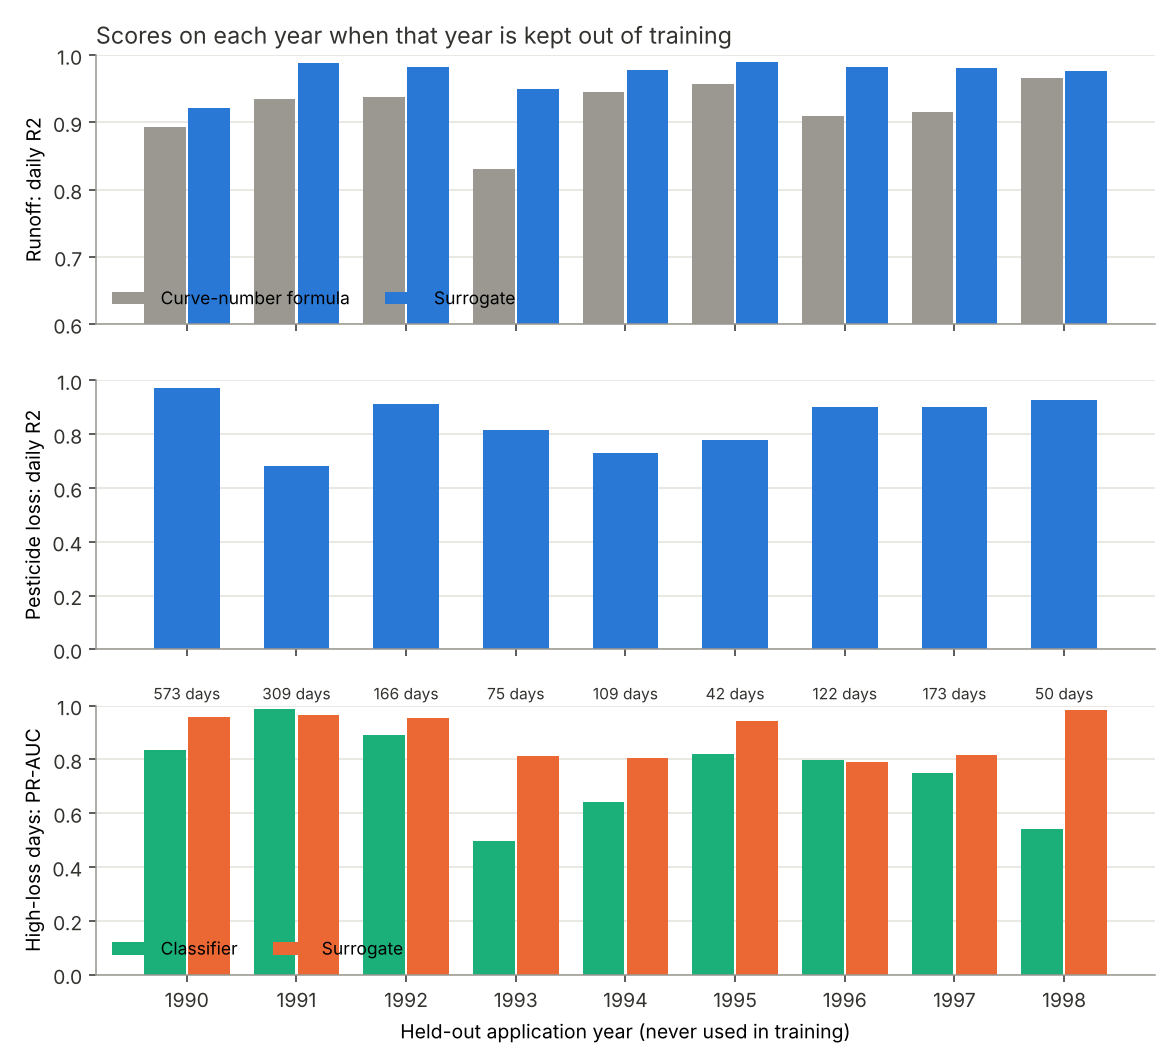
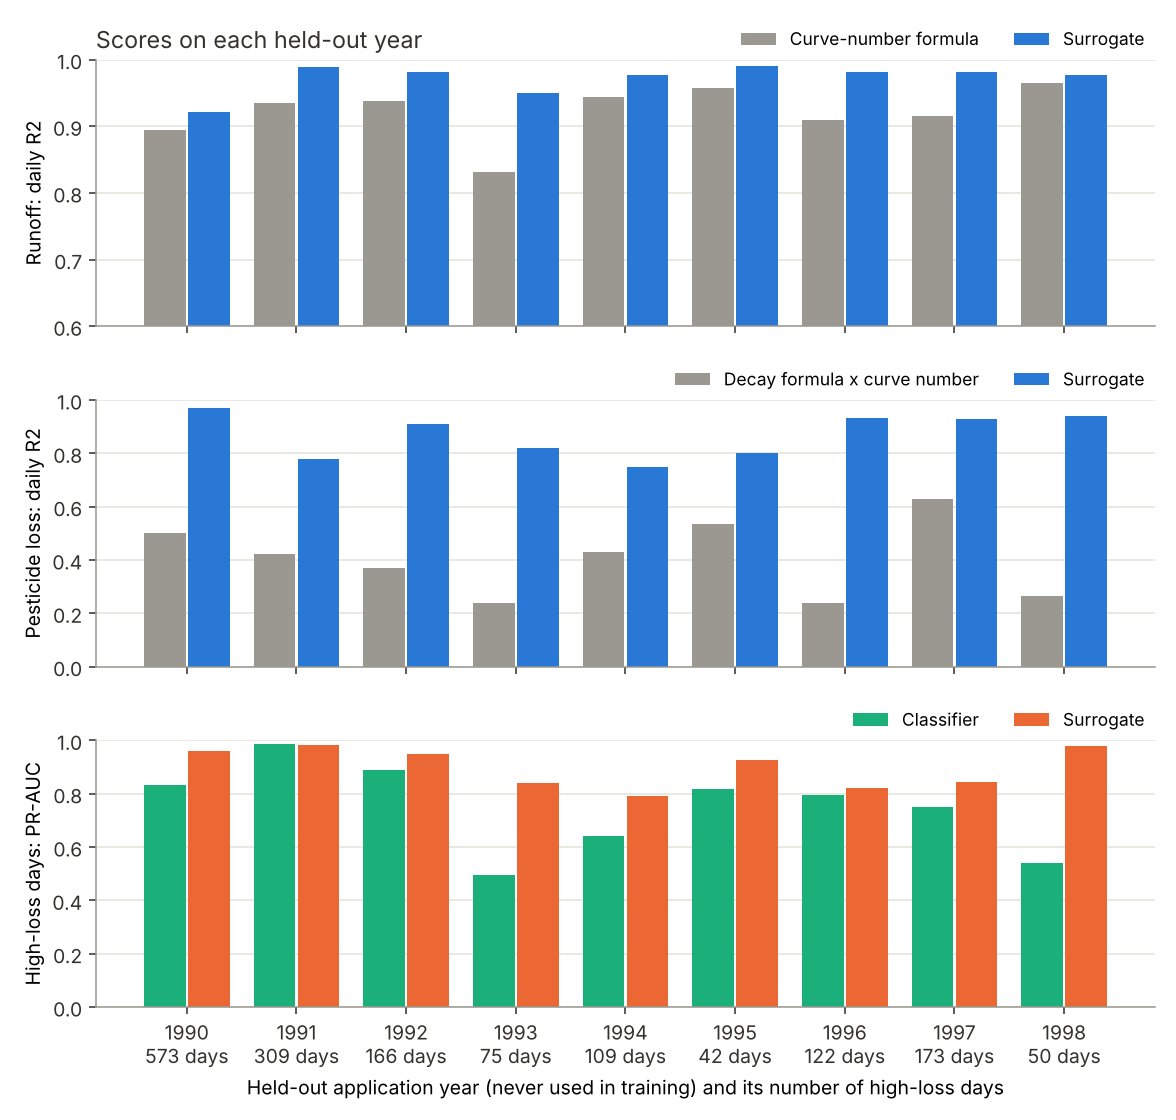
Year-by-year results with the amount-based concentration model; README, scope and model report updated
Leave-one-year-out, nine years pooled: pesticide loss R2 0.91 (was 0.87),
total loss underestimated by 8 % (was 15 %), high-loss PR-AUC 0.92.

Claude-Session: https://claude.ai/code/session_01T1sfAJWbJXhoHJecgvw1dC

diff --git a/runoffwatch/figures.py b/runoffwatch/figures.py
@@ -223,23 +223,23 @@ def model_figures(te, tc, scores, shap_rank, shap_sample, contrib, calendar, out
 
 def cv_figure(by_year: pd.DataFrame, out: Path) -> None:
     """Scores for each held-out year: shows how much they move from year to year."""
-    yrs = [str(y) for y in by_year.index]
-    x = np.arange(len(yrs))
-    fig, axes = plt.subplots(3, 1, figsize=(8.4, 7.6), sharex=True)
+    x = np.arange(len(by_year))
+    fig, axes = plt.subplots(3, 1, figsize=(8.4, 8.0), sharex=True)
+    above = dict(frameon=False, fontsize=9, ncol=2, loc="lower right", bbox_to_anchor=(1.0, 1.0), borderaxespad=0.2)
     axes[0].bar(x - 0.2, by_year["runoff_r2_curve_number"], width=0.38, color=MUTED, label="Curve-number formula")
     axes[0].bar(x + 0.2, by_year["runoff_r2"], width=0.38, color=BLUE, label="Surrogate")
-    axes[0].set_ylabel("Runoff: daily R2"); axes[0].set_ylim(0.6, 1.0); axes[0].legend(frameon=False, fontsize=9, ncol=2, loc="lower left")
-    axes[1].bar(x, by_year["loss_r2"].clip(lower=0), width=0.6, color=BLUE)
-    axes[1].set_ylabel("Pesticide loss: daily R2"); axes[1].set_ylim(0, 1.0)
+    axes[0].set_ylabel("Runoff: daily R2"); axes[0].set_ylim(0.6, 1.0); axes[0].legend(**above)
+    axes[1].bar(x - 0.2, by_year["loss_r2_baseline"].clip(lower=0), width=0.38, color=MUTED, label="Decay formula x curve number")
+    axes[1].bar(x + 0.2, by_year["loss_r2"].clip(lower=0), width=0.38, color=BLUE, label="Surrogate")
+    axes[1].set_ylabel("Pesticide loss: daily R2"); axes[1].set_ylim(0, 1.0); axes[1].legend(**above)
     axes[2].bar(x - 0.2, by_year["pr_auc_classifier"], width=0.38, color=AQUA, label="Classifier")
     axes[2].bar(x + 0.2, by_year["pr_auc_surrogate"], width=0.38, color=ORANGE, label="Surrogate")
-    axes[2].set_ylabel("High-loss days: PR-AUC"); axes[2].set_ylim(0, 1.0); axes[2].legend(frameon=False, fontsize=9, ncol=2, loc="lower left")
-    for i, n in enumerate(by_year["high_loss_days"]):
-        axes[2].text(i, 1.01, f"{int(n)} days", ha="center", va="bottom", fontsize=8, color=INK)
-    axes[2].set_xticks(x, yrs); axes[2].set_xlabel("Held-out application year (never used in training)")
+    axes[2].set_ylabel("High-loss days: PR-AUC"); axes[2].set_ylim(0, 1.0); axes[2].legend(**above)
+    axes[2].set_xticks(x, [f"{y}\n{int(n)} days" for y, n in zip(by_year.index, by_year["high_loss_days"])])
+    axes[2].set_xlabel("Held-out application year (never used in training) and its number of high-loss days")
     for ax in axes:
         _style(ax)
-    axes[0].set_title("Scores on each year when that year is kept out of training", loc="left", color=INK, fontsize=12)
+    axes[0].set_title("Scores on each held-out year", loc="left", color=INK, fontsize=12)
     _save(fig, out / "m7_scores_by_held_out_year.png")
 
 

diff --git a/docs/MODEL_REPORT.md b/docs/MODEL_REPORT.md
@@ -1,7 +1,7 @@
 # Model report: surrogate of PRZM, high-loss days, spray-day advisor
 
 All numbers are from `python -m runoffwatch train --cv` (leave-one-year-out) and
-`python -m runoffwatch train` (final models, figures) on 12 Nov 2026. Machine-readable:
+`python -m runoffwatch train` (final models, figures) on 16 Nov 2026. Machine-readable:
 [`results/cv_summary.json`](results/cv_summary.json), [`results/cv_by_year.csv`](results/cv_by_year.csv),
 [`results/model_metrics.json`](results/model_metrics.json).
 Which data went in: [DATA_REPORT.md](DATA_REPORT.md).
@@ -20,6 +20,15 @@ Pesticide loss = runoff x concentration. No PRZM output is used as an input.
 Both are gradient-boosted trees (LightGBM). The runoff model is
 **physics-informed**: the textbook curve-number runoff for today's rain is one
 of its inputs, so it only has to learn how PRZM corrects that for soil moisture.
+
+The concentration model is trained on the amount itself, with each day weighted
+by its runoff, so that errors are counted in grams lost. The first version was
+trained on the logarithm of the amount; it was very exact for small losses but
+underestimated the large ones (section 3).
+
+The models saved in `models/` and used by the advisor are trained on **all
+years and all weather files**. Their expected accuracy is the leave-one-year-out
+score below; they cannot be tested themselves because no data is left over.
 
 **High-loss classifier**: is today a day with at least 1 g/ha pesticide loss
 (0.04 % of the dose)? Such days are 0.17 % of all rain days and carry 55 % of
@@ -75,21 +84,24 @@ The surrogate beats the formula in every one of the nine years.
 
 | | Daily R², all years | Range over the 9 years |
 |---|---|---|
-| **Surrogate (both stages)** | **0.87** | 0.68 - 0.97 |
+| **Surrogate (both stages)** | **0.91** | 0.75 - 0.97 |
 | Baseline: decay formula x curve-number runoff | 0.49 | 0.24 - 0.63 |
 
 | Sum of all loss, surrogate / PRZM | All years | Range |
 |---|---|---|
-| | 0.85 | 0.60 - 1.12 |
+| | 0.92 | 0.70 - 1.16 |
 
 ![Loss](figures/m2_loss_surrogate.png)
 
 Honest reading:
 - The surrogate follows PRZM far better than the simple baseline in every year.
-- How well depends strongly on the year: R² 0.97 in the best, 0.68 in the worst. A year's score is
+- How well depends strongly on the year: R² 0.97 in the best, 0.75 in the worst. A year's score is
   decided by a handful of storms.
-- It **underestimates the total loss by about 15 %** on average, and by 40 % in the worst year (1991).
-  For a risk tool that is the wrong direction; it needs fixing or a safety margin.
+- It **underestimates the total loss by about 8 %** on average, and by 30 % in the worst year (1991).
+  For a risk tool that is the wrong direction; results need a safety margin.
+- Training the concentration model on amounts instead of logarithms improved this: before, R² was
+  0.87 (0.68 in the worst year) and the total was underestimated by 15 % (40 % in the worst year).
+  It did not remove the problem.
 - The weak years have large losses from unusual events, for example a 56 mm summer storm in August
   1994, 167 days after spraying, heavier than almost anything in the training years.
 
@@ -99,15 +111,15 @@ Honest reading:
 |---|---|---|
 | Rule: rain today | 0.06 | 0.03 - 0.27 |
 | Gradient-boosting classifier | 0.81 | 0.50 - 0.99 |
-| **Surrogate: predicted loss** | **0.91** | 0.79 - 0.98 |
+| **Surrogate: predicted loss** | **0.92** | 0.79 - 0.98 |
 
 (Logistic regression, tested on 1992 and 1996 only: 0.65, against 0.87 and 0.91 for the two models above.)
 
 ![Precision-recall](figures/m3_high_loss_precision_recall.png)
 
 - Rain today alone is nearly useless. A high-loss day needs rain **and** fresh pesticide.
-- Alarm when the surrogate predicts 1 g/ha or more: 1,272 alarms, **94 % of them real**, and
-  **74 % of the high-loss days found** (between 35 % and 95 % depending on the year). So an alarm
+- Alarm when the surrogate predicts 1 g/ha or more: 1,341 alarms, **91 % of them real**, and
+  **76 % of the high-loss days found** (between 36 % and 92 % depending on the year). So an alarm
   can be trusted, but no alarm does not mean no risk.
 - Predicting the amount and then applying the limit is more reliable than predicting yes/no
   directly. The amount model learns from about 226,000 runoff days; the yes/no model has about
@@ -157,7 +169,7 @@ spray day.
 
 In the built-in made-up example a storm front arrives on 9-12 March. Spraying
 on 19-23 February loses almost nothing in the following 14 days; spraying on
-25 February puts the storm inside the window and loses 5.8 g/ha.
+25 February puts the storm inside the window and loses about 5.4 g/ha.
 
 ## 6. Limits
 
@@ -167,10 +179,9 @@ on 19-23 February loses almost nothing in the following 14 days; spraying on
    about another product, or about another dose. That needs new PRZM runs. Even a small shift is
    an extrapolation: in the data, "days since spraying" and the calendar date always move together,
    so the models cannot separate them.
-3. **Underestimates totals by about 15 %** on unseen years, and misses a quarter of the high-loss
-   days (two thirds in the worst year). Extreme storms unlike those in training are its weak point.
+3. **Underestimates totals by about 8 %** on unseen years (30 % in the worst), and misses a quarter
+   of the high-loss days (two thirds in the worst year). Extreme storms unlike those in training are its weak point.
 4. **Small effective sample.** Ten years of weather from one region; all high-loss days fall on 86 dates.
-   The models in `models/` are trained without the years 1992, 1994 and 1996.
 5. **Part of the training targets may be slightly contaminated** by the simulator problem
    described in DATA_REPORT.md, below what the quality rule can detect.
 6. **The advisor has not been evaluated as a decision tool.** We tested how well the surrogate
@@ -179,7 +190,8 @@ on 19-23 February loses almost nothing in the following 14 days; spraying on
 
 ## 7. Next steps
 
-- Train the final models on all years (the year-by-year evaluation now gives the honest score).
-- Fix the underestimation of large events (for example train the amount directly, or calibrate on the validation year).
-- Compare with a sequence model (LSTM); related work uses them for this kind of surrogate.
-- Ask Landau for runs with varied spray date, dose and pesticide, and for a rerun without the numerical problem.
+- New PRZM runs with varied spray date, dose and substance, and a control group for the Henry
+  constant: prepared in [NEW_RUNS_PLAN.md](NEW_RUNS_PLAN.md), waiting for the model owners.
+- Test the surrogate on the 1979-2024 Agri4Cast weather for France (46 years it has never seen).
+- Reduce the remaining underestimation in years with extreme storms.
+- SHAP for the surrogate itself, not only for the classifier.

diff --git a/README.md b/README.md
@@ -12,6 +12,7 @@ Course project, ETX8 Landscape modelling, RPTU Kaiserslautern-Landau.
 | [docs/MODEL_REPORT.md](docs/MODEL_REPORT.md) | Models, evaluation, drivers, risk calendar, limits |
 | [docs/RELATED_WORK.md](docs/RELATED_WORK.md) | Existing tools and surrogates, baselines |
 | [docs/PROJECT_SCOPE.md](docs/PROJECT_SCOPE.md) | Scope and research questions |
+| [docs/NEW_RUNS_PLAN.md](docs/NEW_RUNS_PLAN.md) | Prepared experiment: new simulations with varied spray date, dose and substance |
 | [docs/ROADMAP.md](docs/ROADMAP.md) | What is done and what is next |
 
 ## Main results so far
@@ -23,9 +24,9 @@ Course project, ETX8 Landscape modelling, RPTU Kaiserslautern-Landau.
   plausibility rule keeps 73 % of the simulated run-years. The water part is sound.
 - Tested by leaving out one year at a time (and weather files never used in training), the
   surrogate reproduces PRZM's daily runoff with R² 0.97 (curve-number formula alone: 0.92) and
-  daily pesticide loss with R² 0.87 (0.68 to 0.97 depending on the year; simple baseline: 0.49).
-  It finds high-loss days with PR-AUC 0.91: 94 % of its alarms are real, and it finds 74 % of
-  the high-loss days. It underestimates total loss by about 15 %.
+  daily pesticide loss with R² 0.91 (0.75 to 0.97 depending on the year; simple baseline: 0.49).
+  It finds high-loss days with PR-AUC 0.92: 91 % of its alarms are real, and it finds 76 % of
+  the high-loss days. It underestimates total loss by about 8 %.
 - It is a few hundred times faster than PRZM.
 
 Everything describes the PRZM model for Flufenacet at 2.4 kg/ha on winter cereals
@@ -78,13 +79,13 @@ Your prompt now starts with `(.venv)`. Do this "switch on" step again each time 
 pip install -e ".[dev,app]"
 ```
 
-**Step 4. Check that it works.** This runs the 163 automatic tests (about 15 seconds).
+**Step 4. Check that it works.** This runs the automatic tests (about 15 seconds).
 
 ```bash
 python -m pytest -q
 ```
 
-You should see `163 passed`.
+You should see `199 passed, 1 skipped` (the skipped one needs PyTorch).
 
 **Step 5. Ask the model a question.** This compares 7 possible spray days for a made-up weather example.
 
@@ -157,6 +158,13 @@ python -m runoffwatch train --cv
 
 Times are for a laptop with 4 cores. You need about 5 GB of free disk space.
 
+**Optional extras** (need the steps above):
+
+| Command | What it does | Time |
+|---|---|---|
+| `pip install -e ".[lstm]"` then `python -m runoffwatch lstm` | Trains a second surrogate, an LSTM neural network, and compares it with the tree surrogate on the same test data | 10-20 min |
+| `python -m runoffwatch design` | Writes run files for NEW simulations (varied spray date, dose, substance) into `data/design/`. Nothing is uploaded; see [docs/NEW_RUNS_PLAN.md](docs/NEW_RUNS_PLAN.md) | 1 min |
+
 **Step 3. Look at the results.**
 
 | The three project tasks | Where to look |
@@ -196,7 +204,9 @@ report for one single run.
 | `runoffwatch/figures.py`, `report.py` | Figures and single-run report |
 | `models/` | Trained models (LightGBM text files, 2 MB) |
 | `docs/figures/`, `docs/results/` | Figures and result tables used in the reports |
-| `tests/` | 163 tests on synthetic run folders (no project data in git) |
+| `runoffwatch/lstm.py` | Second surrogate: an LSTM, compared with the trees |
+| `runoffwatch/design.py` | Generator for new simulation runs (run files and task archives) |
+| `tests/` | 203 tests on synthetic run folders (no project data in git) |
 | `runoffwatch/pipeline.py`, `plots.py`, `przm_spikes.py`, `examples/` | Earlier exploration code, kept for reference |
 
 Code and documents were written with the help of an AI assistant (Claude).

diff --git a/docs/PROJECT_SCOPE.md b/docs/PROJECT_SCOPE.md
@@ -3,7 +3,7 @@
 **Course:** ETX8 Landscape-modelling project, RPTU Kaiserslautern-Landau, winter 2026/27
 **Team:** Saad Najib (Computer Science) · Sarah [surname] (Environmental Science)
 **Slides:** https://claude.ai/artifact/Y82phRAgCapMtktvPri94c
-**Version:** 2, after the project presentation on 4 Nov 2026 and the first run on the full data
+**Version:** 3 (16 Nov 2026), after the project presentation on 4 Nov 2026 and two rounds of work on the full data
 
 ## One-sentence summary
 
@@ -68,9 +68,13 @@ risk calendar by month and by rain amount x time since spraying.
 Streamlit app and command line: for a weather table and a soil, compare the
 predicted loss for several candidate spray days.
 
-### Task 5 – Extensions (if time allows)
-Agri4Cast weather for other regions and years; a sequence model (LSTM) as a
-second surrogate; new PRZM runs with varied spray date, dose and pesticide.
+### Task 5 – Extensions
+- **Second surrogate (LSTM), done:** a sequence model that reads the daily weather directly,
+  compared with the tree surrogate on the same test data (MODEL_REPORT.md).
+- **New PRZM runs, prepared:** a designed experiment with varied spray date, dose and substance
+  properties, plus a control group for the Henry constant ([NEW_RUNS_PLAN.md](NEW_RUNS_PLAN.md)).
+  Needs the agreement of the model owners.
+- **More weather, open:** test the surrogate on the 1979-2024 Agri4Cast weather for France.
 
 ## Team roles
 
@@ -91,6 +95,7 @@ A third team member on the Kaiserslautern side may join (approved by the supervi
 - **Daily resolution.** As in PRZM.
 - **Part of the pesticide results is unusable** because of a numerical problem in the simulator; about
   73 % of the simulated run-years are kept.
+- **Large losses are underestimated** (by about 8 % overall, more in years with extreme storms).
 - **Ten years of regional weather.** The 695 weather files share the same storms, so there are far fewer
   independent weather events than rows. Scores differ noticeably from one held-out year to another.
 
